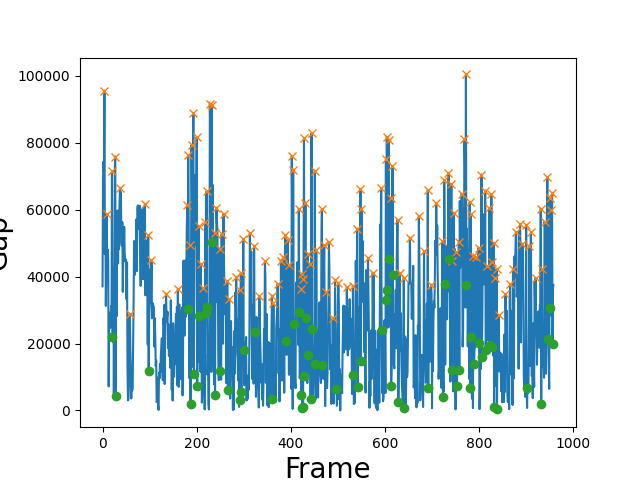
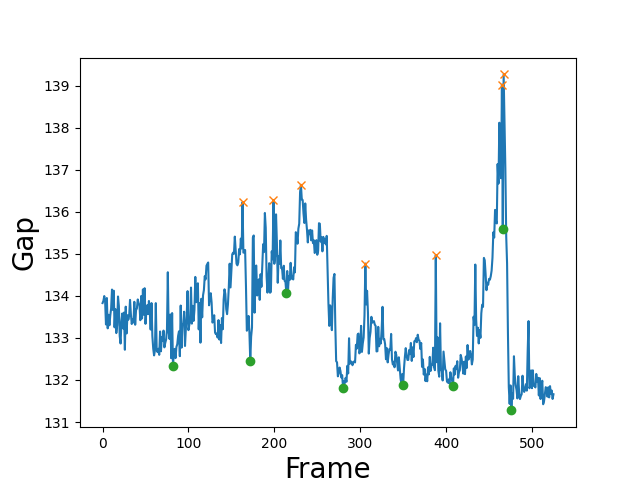
這個png是不是有病

diff --git a/camera_motion_estimation.py b/camera_motion_estimation.py
@@ -42,13 +42,13 @@ class MV_on_Vechicle:
 
 
 		# specify directory and file name
-        # self.dir_path = "mvs_mp4\\0521"
+        # self.dir_path = "mvs_mp4\\0701\\edge"
         self.dir_path = "/media/mvclab/HDD/mvs_mp4/0701/edge"  # mvclab
         # self.all_file = os.listdir(self.dir_path)
         # self.all_file = sorted(self.all_file)
         # self.all_file = ["test_2024-03-18-07-57-26_mvs_compressed.mp4"] # 0318
         # self.all_file = ["test_2024-05-21-08-08-41_mvs_compressed.mp4"] # 0521
-        self.all_file = ["test_2024-07-01-02-45-59_mvs_compressed.mp4"] # 0701
+        self.all_file = ["test_2024-07-01-02-44-14_mvs_compressed.mp4"] # 0701
         # self.all_file = ["test_2024-06-28-10-11-20_mvs.mp4"]
 
   
@@ -316,6 +316,7 @@ class MV_on_Vechicle:
 
             u_plot1 = []
             u_plot2 = []
+            plt.ion()
 
             # main loop 
             while True:
@@ -335,14 +336,14 @@ class MV_on_Vechicle:
                 y, u, v = cv.split(yuv) # 不知道為啥 v看起來才是水平向量
 
 
-                translation = np.ravel(u.copy())
-                up = np.where(translation > 128)
-                down = np.where(translation < 128)
+                # translation = np.ravel(u.copy())
+                # up = np.where(translation > 128)
+                # down = np.where(translation < 128)
 
-                count_up = len(translation[up])
-                count_down = len(translation[down])
-                diff = abs(count_up - count_down)
-                u_plot1.append(diff)
+                # count_up = len(translation[up])
+                # count_down = len(translation[down])
+                # diff = abs(count_up - count_down)
+                # u_plot1.append(diff)
 
                 
 
@@ -476,36 +477,36 @@ class MV_on_Vechicle:
 
 
                 
-                # =================================
-                # 測試把波峰拿掉
-                tempWindow = []
-                if len(u_plot1) > 20:
-                    for i in range(1, 21):
-                        tempWindow.append(u_plot1[-i])
+                # # =================================
+                # # 測試把波峰拿掉
+                # tempWindow = []
+                # if len(u_plot1) > 20:
+                #     for i in range(1, 21):
+                #         tempWindow.append(u_plot1[-i])
 
-                    peaks, _ = find_peaks(tempWindow, prominence=25000)
-                    if 1 in peaks:
-                        temp_lr_center = self.last_center
-                        u_plot2.append(frame_id)
-                    else:
-                        self.last_center = lr_center
-                        temp_lr_center = lr_center
-                else:
-                    for i in range(len(u_plot1)):
-                        tempWindow.append(u_plot1[-i])
+                #     peaks, _ = find_peaks(tempWindow, prominence=25000)
+                #     if 1 in peaks:
+                #         temp_lr_center = self.last_center
+                #         u_plot2.append(frame_id)
+                #     else:
+                #         self.last_center = lr_center
+                #         temp_lr_center = lr_center
+                # else:
+                #     for i in range(len(u_plot1)):
+                #         tempWindow.append(u_plot1[-i])
                         
-                    peaks, _ = find_peaks(tempWindow, prominence=25000)
-                    if 1 in peaks:
-                        temp_lr_center = self.last_center
-                    else:
-                        self.last_center = lr_center
-                        temp_lr_center = lr_center
+                #     peaks, _ = find_peaks(tempWindow, prominence=25000)
+                #     if 1 in peaks:
+                #         temp_lr_center = self.last_center
+                #     else:
+                #         self.last_center = lr_center
+                #         temp_lr_center = lr_center
 
 
 
 
                 self.center_without_avg_list.append(lr_center)
-                self.yolo_cener_without_avg_list.append(temp_lr_center)
+                # self.yolo_cener_without_avg_list.append(temp_lr_center)
 
                 # yolo_lr_center = self.find_center(yolo_tempRow)
                 # self.yolo_cener_without_avg_list.append(yolo_lr_center)
@@ -530,10 +531,10 @@ class MV_on_Vechicle:
 
                     for i in range(1, 21):
                         center_sum += self.center_without_avg_list[-i]
-                        yolo_center_sum += self.yolo_cener_without_avg_list[-i]
+                        # yolo_center_sum += self.yolo_cener_without_avg_list[-i]
 
                     center_avg = int(center_sum / 20)
-                    yolo_center_avg = int(yolo_center_sum / 20)
+                    # yolo_center_avg = int(yolo_center_sum / 20)
                     
 
 
@@ -544,9 +545,9 @@ class MV_on_Vechicle:
                     self.center_list.append(center_avg)
                     cv.circle(yuv_with_polygons, ((self.frame_width*center_avg//self.window_number)+(window_width//2), window_top-30), 6, (31, 198, 0), -1)
                     
-                    # 畫中心位置
-                    self.yolo_center_list.append(yolo_center_avg)
-                    cv.circle(yuv_with_polygons, ((self.frame_width*yolo_center_avg//self.window_number)+(window_width//2), window_top-50), 6, (0, 0, 255), -1)
+                    # # 畫中心位置
+                    # self.yolo_center_list.append(yolo_center_avg)
+                    # cv.circle(yuv_with_polygons, ((self.frame_width*yolo_center_avg//self.window_number)+(window_width//2), window_top-50), 6, (0, 0, 255), -1)
                     # cv.circle(yuv_with_polygons, ((self.frame_width*yolo_center_avg//self.window_number)+(window_width//2), window_top-30), 6, (31, 198, 0), -1)
 
 
@@ -593,20 +594,22 @@ class MV_on_Vechicle:
 
 
                 # 畫即時圖表
-                # plt.clf()
-                # translation = np.ravel(u.copy())
-                # up = np.where(translation > 128)
-                # down = np.where(translation < 128)
+                plt.clf()
+                translation = np.ravel(u.copy())
+                up = np.where(translation > 128)
+                down = np.where(translation < 128)
 
                 # count_up = len(translation[up])
                 # count_down = len(translation[down])
                 # diff = abs(count_up - count_down)
                 # u_plot1.append(diff)
+                average_up = np.mean(translation[up])
+                u_plot2.append(average_up)
                 # peaks, _ = find_peaks(u_plot1, prominence=25000)
                 
                 # u_plot2.append(count_down)
                 # plt.plot(peaks, np.array(u_plot1)[peaks], 'x')
-                # plt.plot(u_plot1)
+                # plt.plot(u_plot1, label="up")
                 # plt.plot(u_plot2, label="down")
                 # plt.show()
                 # plt.pause(0.0000001)
@@ -627,10 +630,15 @@ class MV_on_Vechicle:
 
                 frame_id += 1
 
-            peaks, _ = find_peaks(u_plot1, prominence=25000)
-            plt.plot(u_plot1)
-            plt.plot(peaks, np.array(u_plot1)[peaks], 'x')
-            plt.plot(u_plot2, np.array(u_plot1)[u_plot2], 'o')
+            u_plot2 = np.array(u_plot2)
+            peaks, _ = find_peaks(u_plot2, prominence=2)
+            
+            valleys, _ = find_peaks(-u_plot2, prominence=2)
+
+            plt.plot(u_plot2)
+            plt.plot(peaks, np.array(u_plot2)[peaks], 'x')
+            plt.plot(valleys, np.array(u_plot2)[valleys], 'o')
+            # plt.plot(u_plot2, np.array(u_plot1)[u_plot2], 'o')
 
             outputStream1.release()
             outputStream2.release()
